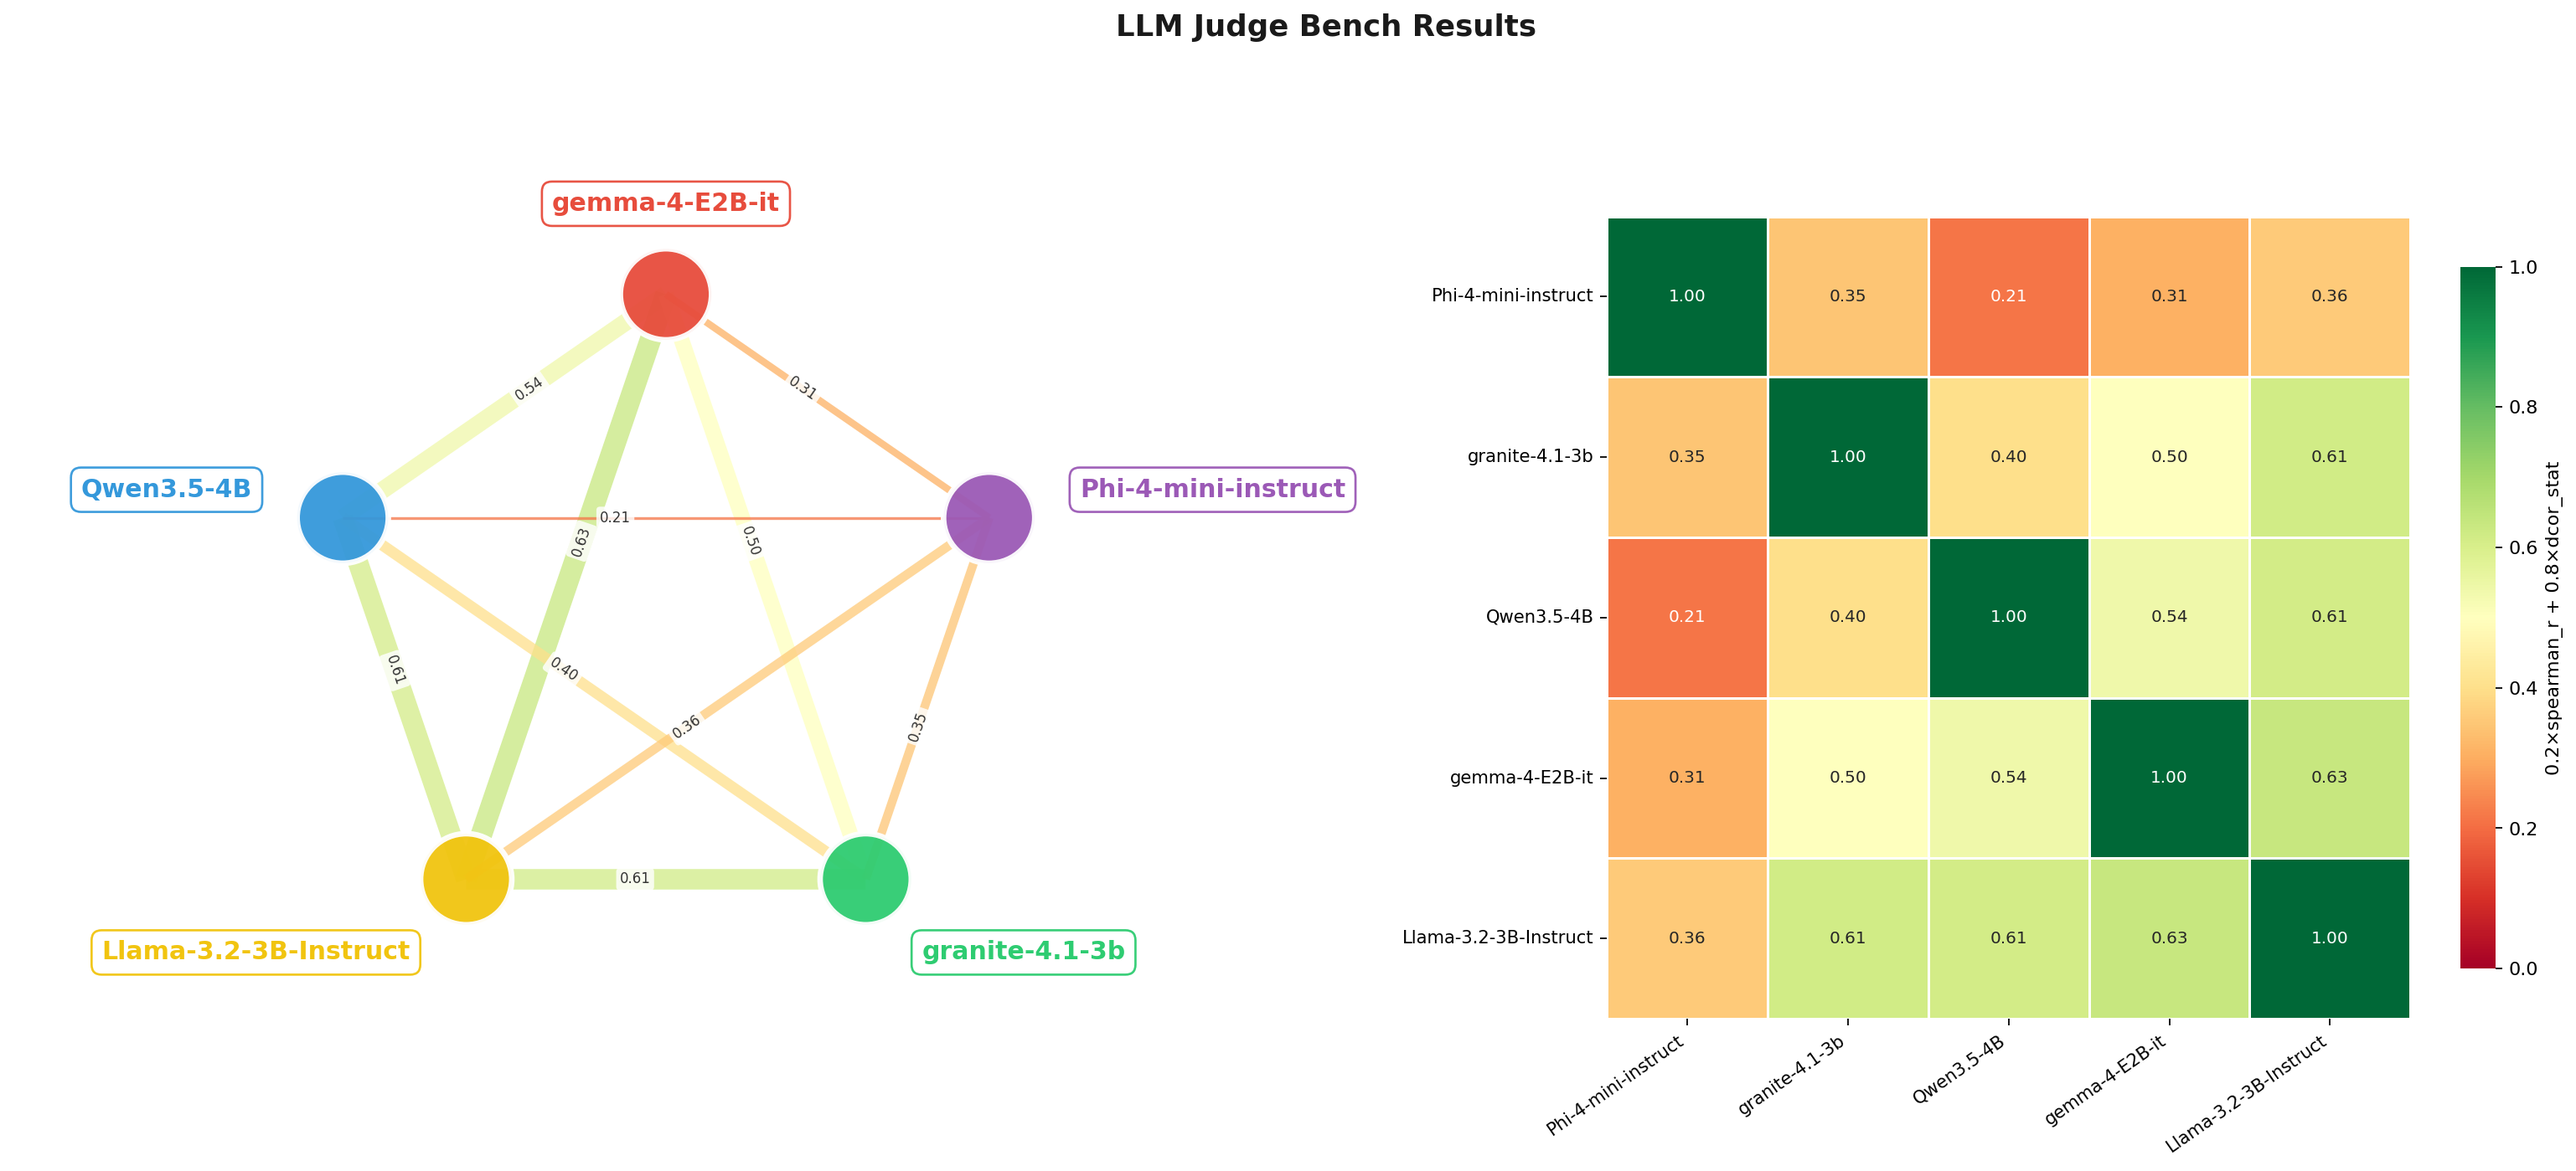
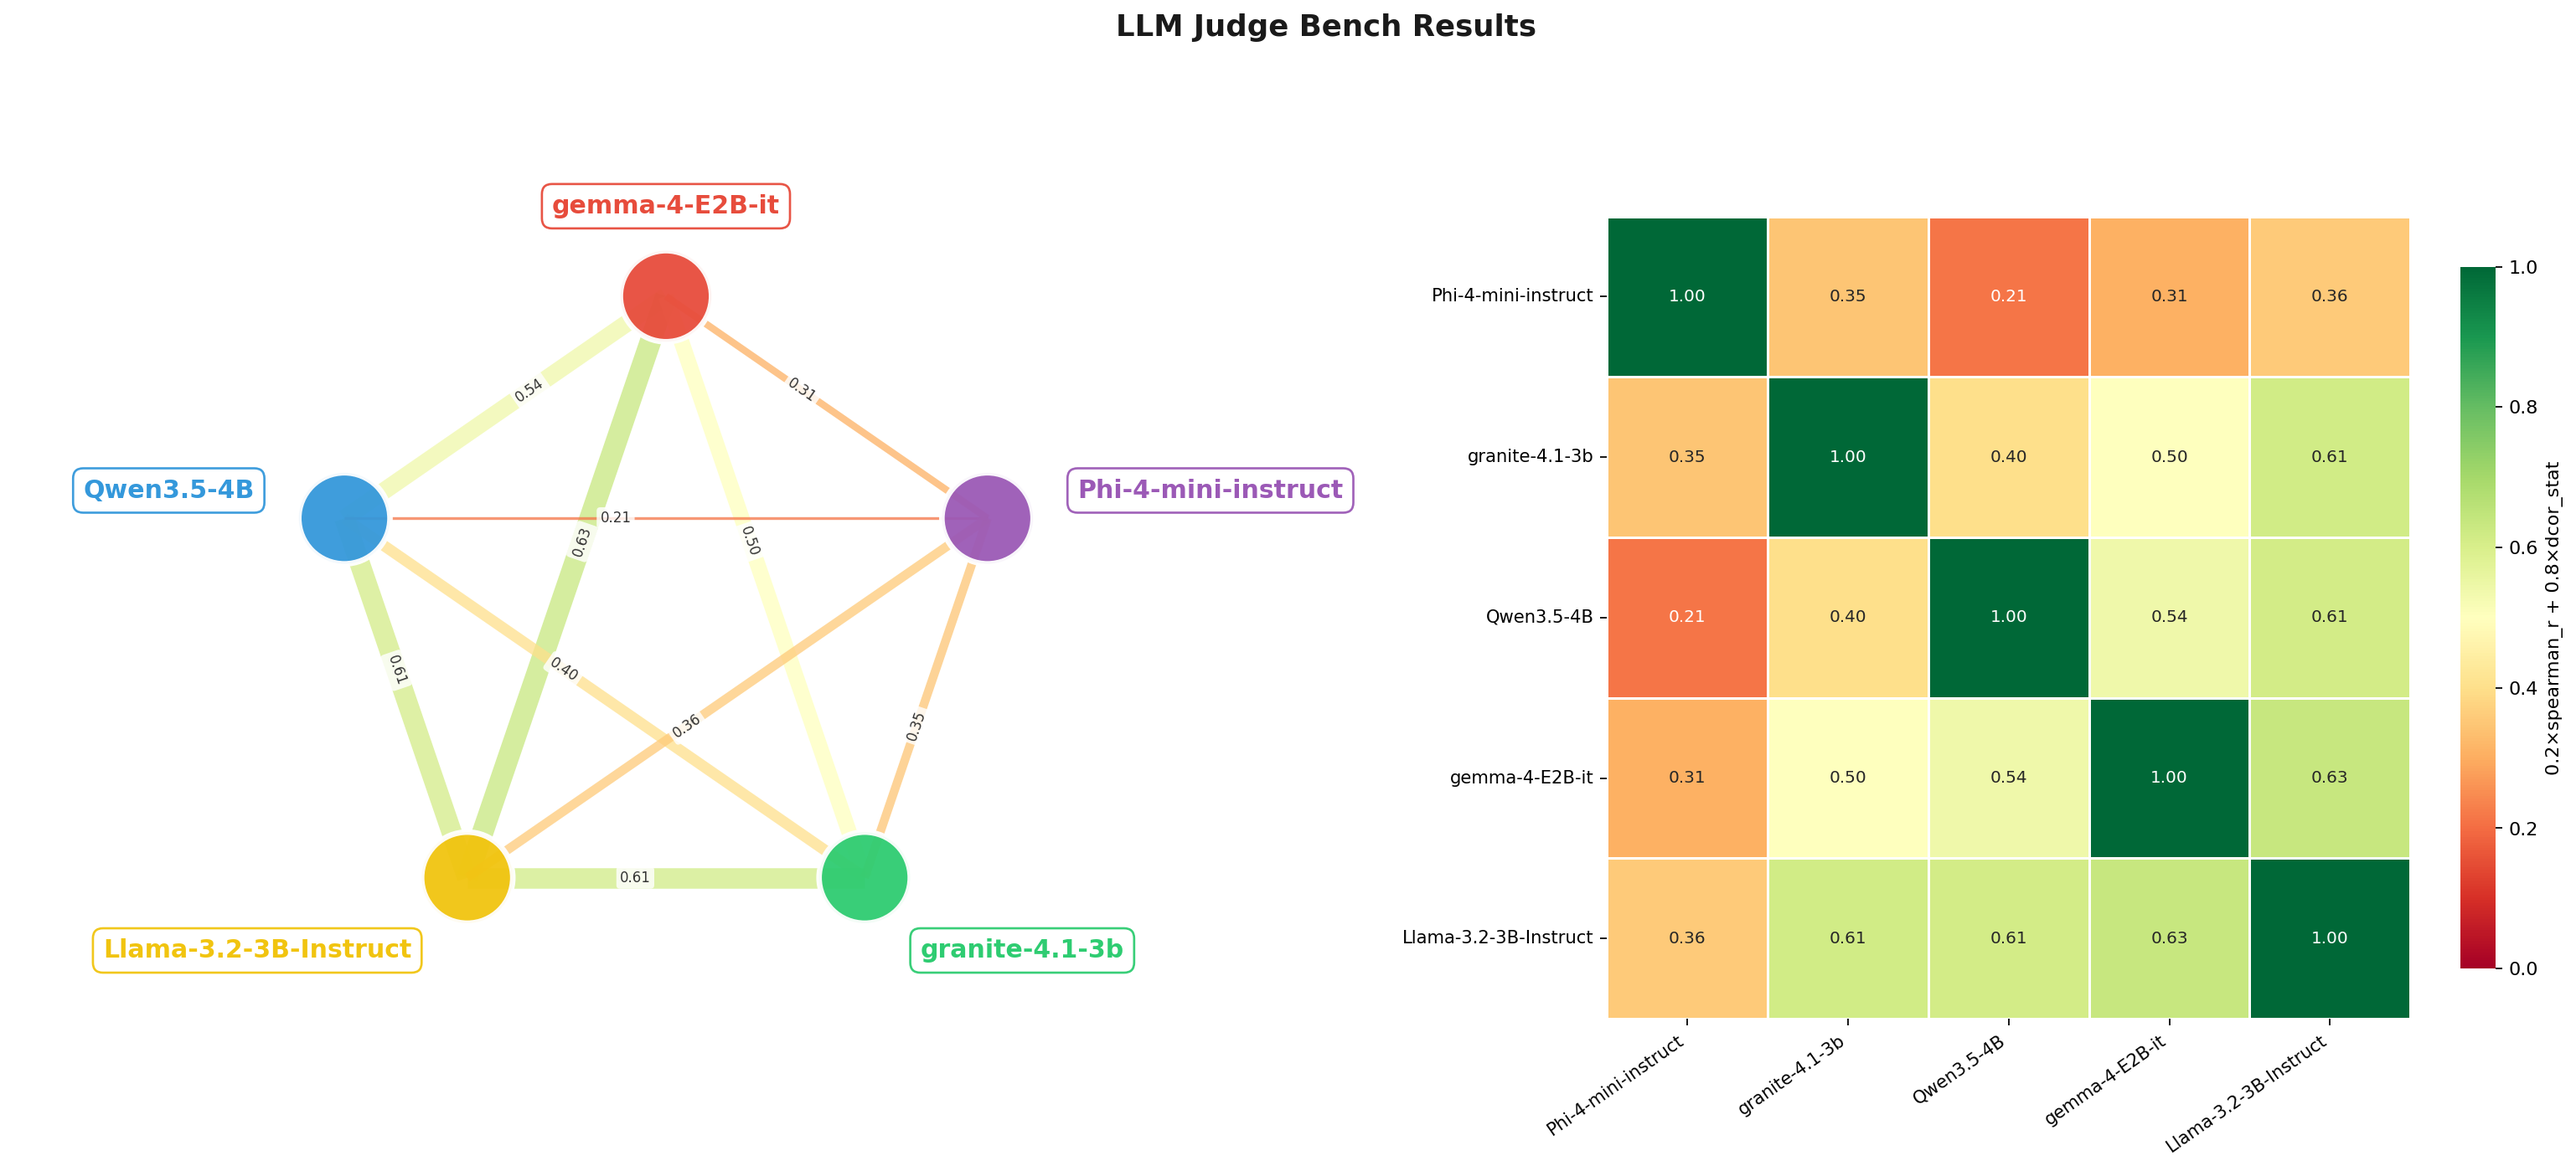
visualization upgrade

diff --git a/cluster_models.py b/cluster_models.py
@@ -112,52 +112,71 @@ def _cluster_colors(Z: np.ndarray, n: int, method: str) -> list[str]:
 
 def plot_network(ax: plt.Axes, corr_df: pd.DataFrame,
                  metric_label: str) -> None:
-    """Draw a weighted network graph: edge width/color = correlation strength."""
+    """Draw a weighted network graph: edge width/color = correlation strength.
+    All visual parameters scale automatically with the number of models."""
     models = corr_df.index.tolist()
     n = len(models)
 
+    # ── Scale factors (anchored to n=5) ──────────────────────────────────────
+    s = 5 / max(n, 5)                           # 1.0 at n=5, shrinks for larger n
+    node_size       = max(300,  int(2400 * s))
+    node_lw         = max(1.2,  3.0  * s)
+    label_fontsize  = max(6.0,  13.5 * s)
+    label_pad       = max(0.15, 0.4  * s)
+    edge_lw_base    = max(0.5,  1.5  * s)
+    edge_lw_range   = max(2.0,  10.0 * s)
+    elabel_fontsize = max(4.5,  7.5  * s)
+    show_edge_labels = n <= 10              # suppress at high density
+
+    # label radius: gap between node and label grows a little for large n
+    # so overlapping text from nearby nodes doesn't merge into the node
+    label_r = 1.28 + 0.008 * max(0, n - 5)
+
+    # ── Graph ─────────────────────────────────────────────────────────────────
     G = nx.Graph()
     G.add_nodes_from(models)
     for i in range(n):
         for j in range(i + 1, n):
-            w = corr_df.iloc[i, j]
-            G.add_edge(models[i], models[j], weight=w)
+            G.add_edge(models[i], models[j], weight=corr_df.iloc[i, j])
 
-    # Pentagon layout — nodes at equal angles, starting from top
+    # n-gon layout — nodes equally spaced on the unit circle, top starts at 12 o'clock
     angles = [np.pi / 2 + 2 * np.pi * i / n for i in range(n)]
     pos = {node: (np.cos(a), np.sin(a)) for node, a in zip(models, angles)}
 
-    # Distinct saturated colors per model — auto-scales with any number of models
-    _saturated = [
+    # Distinct saturated colors — palette repeats for > 10 models
+    _palette = [
         "#E74C3C", "#3498DB", "#F1C40F", "#2ECC71", "#9B59B6",
         "#E67E22", "#1ABC9C", "#E91E8C", "#00BCD4", "#FF5722",
     ]
-    node_colors = [_saturated[i % len(_saturated)] for i in range(n)]
+    node_colors = [_palette[i % len(_palette)] for i in range(n)]
 
-    edges = list(G.edges(data=True))
+    # ── Edges ─────────────────────────────────────────────────────────────────
+    edges   = list(G.edges(data=True))
     weights = np.array([d["weight"] for _, _, d in edges])
-    norm = mcolors.Normalize(vmin=0.0, vmax=1.0)
-    cmap = matplotlib.colormaps["RdYlGn"]
+    norm    = mcolors.Normalize(vmin=0.0, vmax=1.0)
+    cmap    = matplotlib.colormaps["RdYlGn"]
 
-    edge_widths = 1.5 + 10 * (weights - weights.min()) / max(weights.max() - weights.min(), 1e-9)
+    w_range    = max(weights.max() - weights.min(), 1e-9)
+    edge_widths = edge_lw_base + edge_lw_range * (weights - weights.min()) / w_range
     edge_colors = [cmap(norm(w)) for w in weights]
 
     nx.draw_networkx_edges(G, pos, ax=ax, width=edge_widths,
-                           edge_color=edge_colors, alpha=0.75, style="solid")
+                           edge_color=edge_colors, alpha=0.75)
+
+    if show_edge_labels:
+        edge_labels = {(u, v): f"{d['weight']:.2f}" for u, v, d in edges}
+        nx.draw_networkx_edge_labels(
+            G, pos, edge_labels=edge_labels, ax=ax,
+            font_size=elabel_fontsize, font_color="#333333", label_pos=0.42,
+            bbox={"boxstyle": "round,pad=0.25", "fc": "white",
+                  "ec": "none", "alpha": 0.82},
+        )
 
     nx.draw_networkx_nodes(G, pos, ax=ax, node_color=node_colors,
-                           node_size=2400, edgecolors="#ffffff", linewidths=3, alpha=0.95)
+                           node_size=node_size, edgecolors="#ffffff",
+                           linewidths=node_lw, alpha=0.95)
 
-    # Edge weight labels
-    edge_labels = {(u, v): f"{d['weight']:.2f}" for u, v, d in edges}
-    nx.draw_networkx_edge_labels(
-        G, pos, edge_labels=edge_labels, ax=ax,
-        font_size=7.5, font_color="#333333", label_pos=0.42,
-        bbox={"boxstyle": "round,pad=0.25", "fc": "white", "ec": "none", "alpha": 0.82},
-    )
-
-    # Labels pushed radially outward from origin (pentagon is centered at 0,0)
-    label_r = 1.28   # outside the unit-circle nodes
+    # ── Labels pushed radially outward ────────────────────────────────────────
     model_color = dict(zip(models, node_colors))
     for node, (x, y) in pos.items():
         mag = max(np.hypot(x, y), 1e-9)
@@ -166,15 +185,15 @@ def plot_network(ax: plt.Axes, corr_df: pd.DataFrame,
         ax.text(
             lx, ly, node,
             ha=ha, va="center",
-            fontsize=13.5, fontweight="bold", color=model_color[node],
-            bbox={"boxstyle": "round,pad=0.4", "fc": "white",
+            fontsize=label_fontsize, fontweight="bold", color=model_color[node],
+            bbox={"boxstyle": f"round,pad={label_pad}", "fc": "white",
                   "ec": model_color[node], "alpha": 0.95, "linewidth": 1.2},
             zorder=5,
         )
 
-    ax.set_xlim(-1.92, 1.92)
-    ax.set_ylim(-1.67, 1.67)
-
+    # Axes bounds: fixed margin beyond label_r so text is never clipped
+    ax.set_xlim(-label_r - 0.65, label_r + 0.65)
+    ax.set_ylim(-label_r - 0.40, label_r + 0.40)
     ax.axis("off")
 
 
@@ -217,7 +236,8 @@ def plot_all(corr_df: pd.DataFrame, metric_label: str, dataset: str,
         "axes.spines.right": False,
     })
 
-    fig = plt.figure(figsize=(20.4, 9.6))
+    fig_h = max(9.6, 6 + n * 0.5)   # grows with number of models
+    fig = plt.figure(figsize=(20.4, fig_h))
     fig.patch.set_facecolor("#ffffff")
 
     fig.text(0.5, 0.97,
